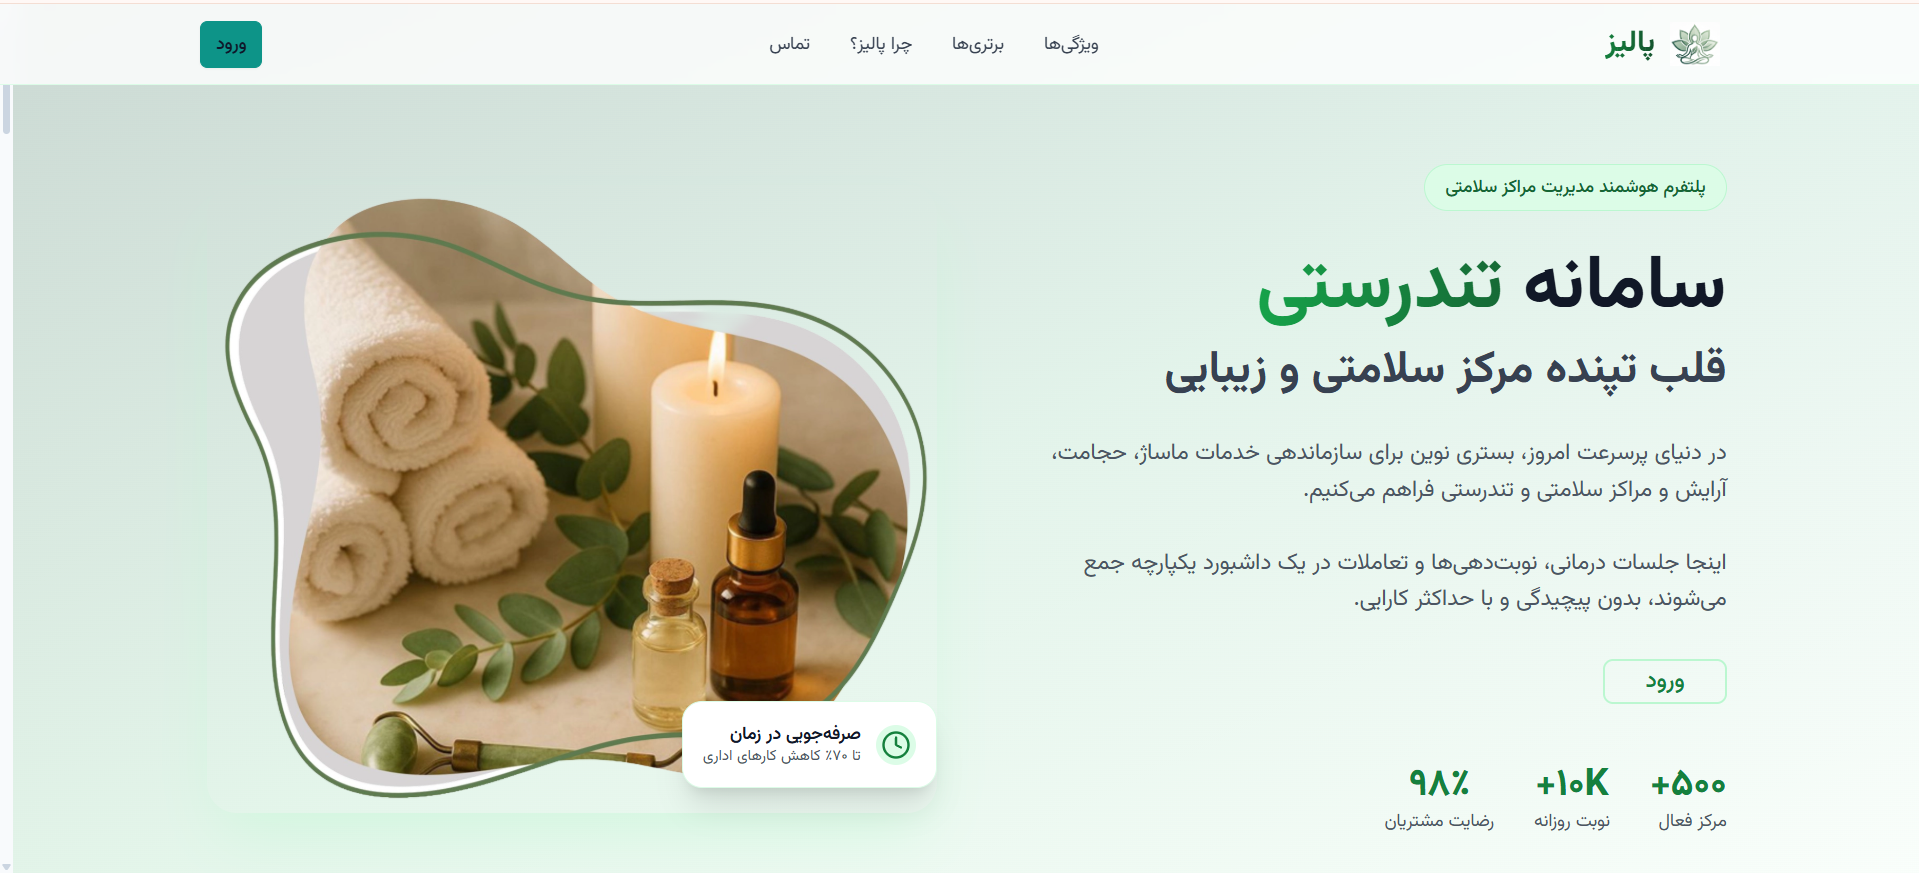
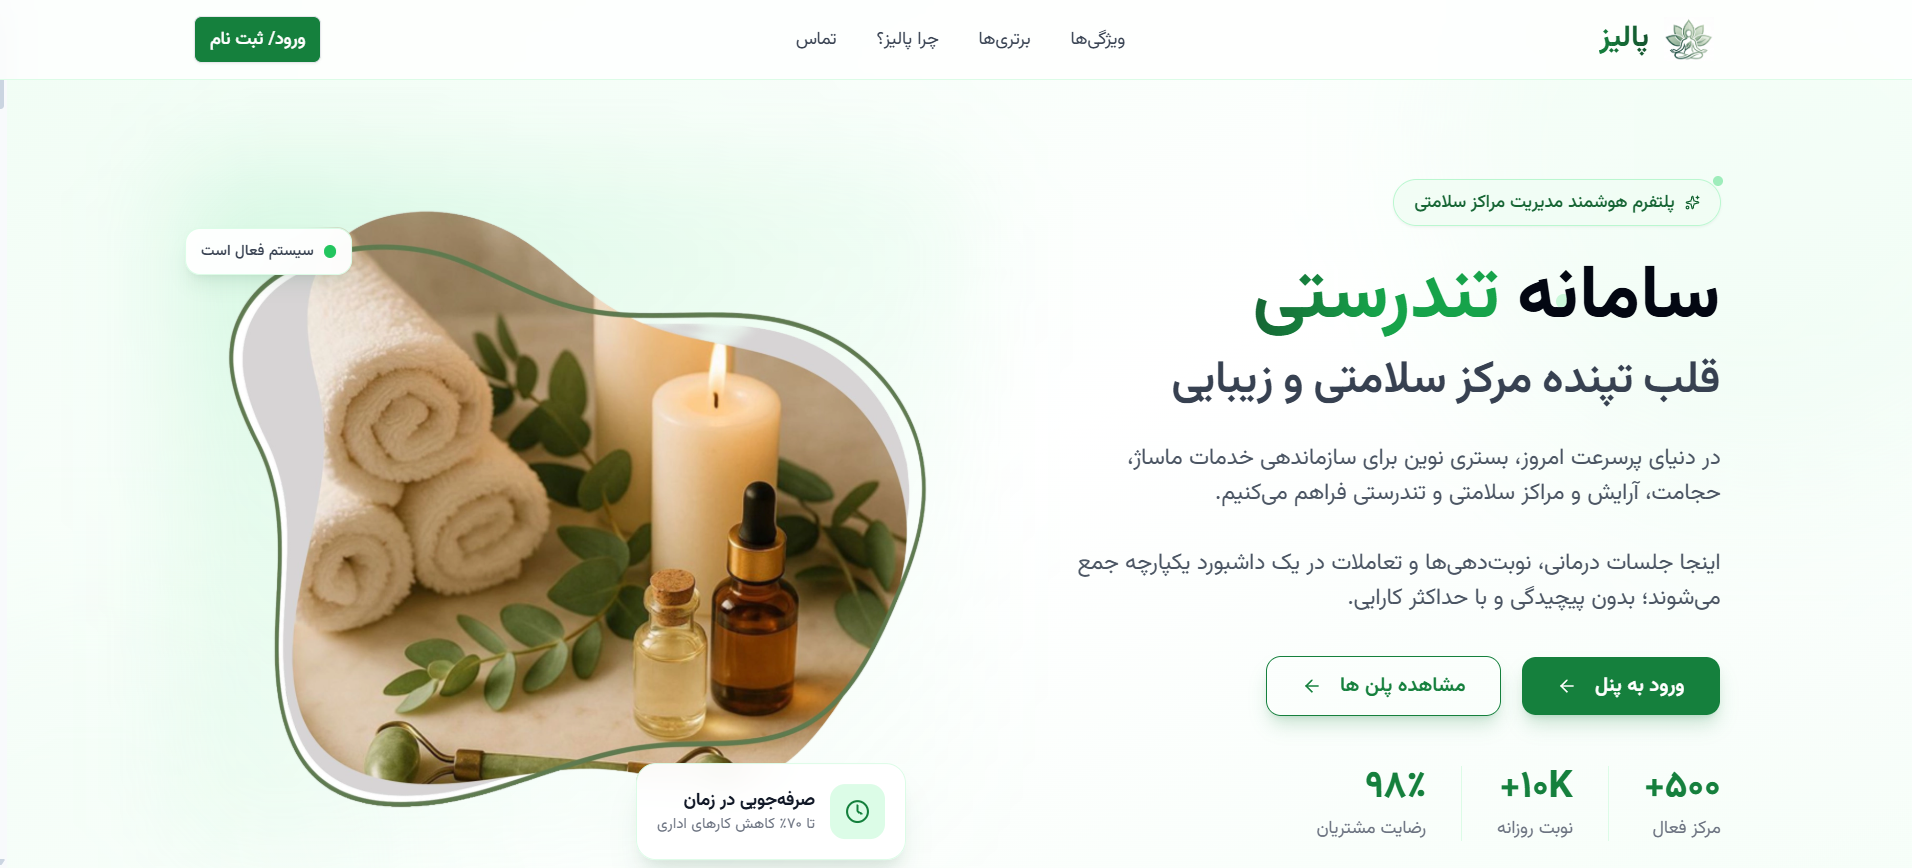
fix(landing)

diff --git a/src/data/portfolio.ts b/src/data/portfolio.ts
@@ -2,12 +2,11 @@ export const profile = {
   name: "Nastaran Talebi",
   role: "Front-End Developer · UI/UX Designer",
   intro:
-    "I design and build intuitive digital experiences where thoughtful interfaces meet solid front-end engineering.",
+    "I build digital experiences powered by thoughtful design and intelligent systems where users understand how AI works, and complexity becomes intuitive. Solid front-end engineering at the core.",
   location: "Isfahan, Iran",
   email: "nastarantalebi.1382@gmail.com",
   github: "https://github.com/Nastarantalebi",
   linkedin: "https://www.linkedin.com/in/nastaran-talebi-9227a6247/",
-  // cv: "/Nastaran-Talebi-CV.pdf",
 };
 
 export const experience = [
@@ -124,21 +123,25 @@ export const projects = [
 ];
 
 export const skills = {
-  frontend: ["React", "TypeScript", "JavaScript", "HTML/CSS","Next.js", "Redux", "Zustand", "Context API", "Node.js", "React-router-dom", "React-hook-form", "Docker"],
+  frontend: ["React", "TypeScript", "JavaScript", "HTML/CSS","Next.js", "Redux", "Zustand", "Context API", "Node.js", "React-router-dom", "React-hook-form", "Docker", "Framer-motion"],
   design: ["UI/UX Design", "HCI", "Figma", "Wireframing", "Prototyping", "Usability Testing"],
   ai: ["Python", "scikit-learn", "TensorFlow", "PyTorch", "Classification", "Regression", "Feature Engineering", "Image processing"],
   data: ["NumPy", "Pandas", "Matplotlib", "Seaborn", "Data Analysis", "Statistical Analysis"],
 };
 
+
 export const research = [
-  "Advanced Front-End Architectures for Scalable Web Applications",
-  "User Experience Optimization in Complex Enterprise Software",
-  "AI-Driven User Interface Personalization and Adaptation",
-  "Intelligent Agent Integration in Front-End Development Frameworks",
-  "Machine Learning for Enhanced User Experience Analytics",
-  "Human-AI Collaboration through Intuitive Web Interfaces",
-  "Design and Evaluation of Adaptive User Interfaces",
+  // --- Interpretable AI Interfaces ---
+  "Explainability in Recommendations: How UI design affects user trust in ML decisions",
+  "Feature Importance Visualization: Presenting model rationale without overwhelming users",
+  "Confidence Communication: When to show uncertainty and how users interpret it",
+  
+  // --- Adaptive UI Systems ---
+  "Behavior-Driven Complexity: Learning user expertise from interaction patterns",
+  "Progressive Information Disclosure: Adapting interface density based on proficiency",
+  "Real-time UX Adaptation: Measuring performance impact of dynamic interface changes",
 ];
+
 export const IMAGES = [
   {
     src: "/works/0.png",
@@ -151,25 +154,11 @@ export const IMAGES = [
     title: "Letters page",
   },
   {
-    src: "/works/2.png",
-    alt: "letters dashboard",
-    title: "Letters Dashboard",
-  },
-  {
     src: "/works/8.png",
     alt: "letters dashboard",
     title: "Letters Dashboard",
   },
-  {
-    src: "/works/3.png",
-    alt: "letters form",
-    title: "Letters Form",
-  },
-  {
-    src: "/works/4.png",
-    alt: "letter details",
-    title: "Letter Details",
-  },
+
   {
     src: "/works/5.png",
     alt: "letter parafs",
@@ -201,23 +190,14 @@ export const IMAGES = [
     title: "Wellness Landing",
   },
   {
+    src: "/works/16.png",
+    alt: "Wellness plans",
+    title: "Wellness plans",
+  },
+  {
     src: "/works/12.png",
     alt: "Wellness landing",
     title: "Wellness Landing",
   },
-  {
-    src: "/works/13.png",
-    alt: "Lawyer landing",
-    title: "Lawyer Landing",
-  },
-  {
-    src: "/works/14.png",
-    alt: "Lawyer landing",
-    title: "Lawyer Landing",
-  },
-  {
-    src: "/works/15.png",
-    alt: "Lawyer landing",
-    title: "Lawyer Landing",
-  },
+
 ];

diff --git a/src/components/Research.tsx b/src/components/Research.tsx
@@ -1,31 +1,58 @@
 import { ArrowUpRight } from "lucide-react";
 import { motion } from "motion/react";
-import { research } from "@/data/portfolio";
 import SectionHeading from "./SectionHeading";
+
+const researchAreas = [
+  {
+    title: "Interpretable AI Interfaces",
+    items: [
+      "Explainability in Recommendations: How UI design affects user trust in ML decisions",
+      "Feature Importance Visualization: Presenting model rationale without overwhelming users",
+      "Confidence Communication: When to show uncertainty and how users interpret it",
+    ]
+  },
+  {
+    title: "Adaptive UI Systems",
+    items: [
+      "Behavior-Driven Complexity: Learning user expertise from interaction patterns",
+      "Progressive Information Disclosure: Adapting interface density based on proficiency",
+      "Real-time UX Adaptation: Measuring performance impact of dynamic interface changes",
+    ]
+  }
+];
 
 export default function Research() {
   return (
-    <section id="research" className="px-6 py-28 md:px-10 md:py-36">
+    <section id="research" className="px-6 pt-28 md:px-10 md:py-10">
       <div className="mx-auto max-w-7xl">
-        <SectionHeading eyebrow="Research interests" title="Where I want to take the work next." />
-        <div className="grid gap-3">
-          {research.map((item, i) => (
-            <motion.div
-              key={item}
-              initial={{ opacity: 0, x: -12 }}
-              whileInView={{ opacity: 1, x: 0 }}
-              viewport={{ once: true }}
-              transition={{ delay: i * .04 }}
-              className="group flex items-center justify-between gap-5 border-b border-border py-5"
-            >
-              <div className="flex items-start gap-5">
-                <span className="mt-1 text-xs text-accent">0{i + 1}</span>
-                <h3 className="text-lg md:text-2xl">{item}</h3>
-              </div>
-              <ArrowUpRight className="size-5 shrink-0 text-muted-foreground transition-transform group-hover:-translate-y-1 group-hover:translate-x-1" />
-            </motion.div>
-          ))}
-        </div>
+        <SectionHeading 
+          eyebrow="Research Interests" 
+          title="Directions I'm actively building toward." 
+        />
+        
+        {researchAreas.map((area) => (
+          <div key={area.title} className="mb-14">
+            <h3 className="mb-6 text-lg font-medium text-accent">{area.title}</h3>
+            <div className="grid gap-3">
+              {area.items.map((item, i) => (
+                <motion.div
+                  key={item}
+                  initial={{ opacity: 0, x: -12 }}
+                  whileInView={{ opacity: 1, x: 0 }}
+                  viewport={{ once: true }}
+                  transition={{ delay: i * .04 }}
+                  className="group flex items-center justify-between gap-5 border-b border-border py-5"
+                >
+                  <div className="flex items-start gap-5">
+                    <span className="mt-1 text-xs text-accent">0{i + 1}</span>
+                    <p className="text-base md:text-lg">{item}</p>
+                  </div>
+                  <ArrowUpRight className="size-5 shrink-0 text-muted-foreground transition-transform group-hover:-translate-y-1 group-hover:translate-x-1" />
+                </motion.div>
+              ))}
+            </div>
+          </div>
+        ))}
       </div>
     </section>
   );

diff --git a/src/components/About.tsx b/src/components/About.tsx
@@ -5,7 +5,10 @@ export default function About() {
   return (
     <section id="about" className="bg-secondary/10 px-6 py-28 text-primary-foreground md:px-10 md:py-36">
       <div className="mx-auto grid max-w-7xl gap-14 lg:grid-cols-[.75fr_1.25fr]">
-        <SectionHeading eyebrow="About me" title="Engineer by training. Designer by instinct." />
+        <SectionHeading 
+          eyebrow="About" 
+          title="Building interfaces where AI enhances, not overwhelms." 
+        />
         <motion.div
           initial={{ opacity: 0, x: 25 }}
           whileInView={{ opacity: 1, x: 0 }}
@@ -14,16 +17,21 @@ export default function About() {
           className="lg:pt-16"
         >
           <p className="text-2xl leading-9 text-primary-foreground/90 md:text-4xl md:leading-[1.2]">
-            I&apos;m a Computer Engineering graduate from Yazd University, working at the intersection of front-end engineering, UI/UX design, and applied AI.
+            I'm drawn to a specific problem: most AI-driven products fail at the interface. 
+            The algorithm works, but users don't trust it. The system learns, but doesn't communicate why. 
+            I work at that intersection—using design to make intelligent systems legible.
           </p>
           <p className="mt-8 max-w-2xl leading-8 text-primary-foreground/60">
-            I build interfaces for complex, real-world systems — EMR platforms, booking flows, enterprise dashboards — and I&apos;m especially drawn to researching how AI and machine learning can make those interfaces more personalized, predictive, and human-aware. My thesis used a genetic algorithm to generate adaptive, user-specific recommendations, and that intersection of AI-driven logic and front-end experience is where I keep coming back.
+            My background spans clinical systems, booking platforms, and data-heavy dashboards—each 
+            reinforced that great UX and intelligent algorithms aren't opposing forces. When users understand 
+            how a system makes decisions, they use it better. When algorithms account for cognitive load and 
+            context, the interface becomes intuitive. That's what I'm building toward.
           </p>
           <div className="mt-10 grid grid-cols-2 gap-5 border-t border-primary-foreground/15 pt-7 sm:grid-cols-4">
             <Stat value="17.07/20" label="B.Sc. GPA" />
-            <Stat value="20/20" label="Thesis grade" />
-            <Stat value="6.5" label="IELTS Academic" />
-            <Stat value="AI × UX" label="Research focus" />
+            <Stat value="5+" label="Production Projects" />
+            <Stat value="Adaptive UX" label="Current Focus" />
+            <Stat value="AI·Design" label="Intersection" />
           </div>
         </motion.div>
       </div>

diff --git a/src/components/Hero.tsx b/src/components/Hero.tsx
@@ -6,7 +6,7 @@ import { FaLinkedin, FaGithub } from "react-icons/fa";
 
 export default function Hero() {
   return (
-    <section className="hero-glow relative min-h-dvh overflow-hidden px-6 pb-16 pt-3 sm:px-8 md:px-10 md:pb-0 md:pt-5 lg:pt-15">
+    <section className="hero-glow relative pb-6 overflow-hidden px-6 pt-3 sm:px-8 md:px-10 md:pb-0 md:pt-5 lg:pt-15">
       <div className="mx-auto grid min-h-fit max-w-7xl items-center gap-10 sm:gap-14 md:min-h-[calc(100dvh-10rem)] md:grid-cols-[1.05fr_.95fr]">
         <motion.div
           initial={{ opacity: 0, y: 30 }}
@@ -76,6 +76,9 @@ export default function Hero() {
               alt="Nastaran Talebi"
               className="h-full w-full object-cover object-top grayscale-[15%]"
             />
+            {/* Blurred fade overlay at bottom */}
+            <div className="absolute inset-x-0 bottom-0 h-1 bg-gradient-to-r from-bg-gray-100 via-bg-gray-500 rounded-full shadow-2xl to-bg-gray-100 backdrop-blur-md" />
+            ;
           </div>
           <div className="absolute -bottom-4 right-2 max-w-[calc(100%-1.5rem)] rounded-2xl border border-border bg-card/10 px-4 py-3 shadow-xl backdrop-blur sm:bottom-2 sm:right-4 sm:px-5 sm:py-4 md:-right-6 xl:-right-10">
             <p className="text-[10px] uppercase tracking-[.2em] text-muted-foreground sm:text-xs">

diff --git a/src/components/Contact.tsx b/src/components/Contact.tsx
@@ -40,7 +40,7 @@ export default function Contact() {
 
 
   return (
-    <section id="contact" className="px-6 pb-10 pt-20 md:px-10">
+    <section id="contact" className="px-6 pb-10 md:px-10">
       <motion.div
         initial={{ opacity: 0, y: 20 }}
         whileInView={{ opacity: 1, y: 0 }}
@@ -49,7 +49,7 @@ export default function Contact() {
       >
         <div className="grid grid-cols-1 md:grid-cols-2">
           {/* Left column — copy */}
-          <div className="flex flex-col justify-center px-7 py-16 md:px-14 md:py-24">
+          <div className="flex flex-col justify-center px-7 py-12 md:px-14 md:py-15">
             <Mail className="mb-7 size-7 text-accent" />
             <p className="text-xs uppercase tracking-[.25em] text-primary-foreground/50">
               Have a project in mind?

diff --git a/src/App.tsx b/src/App.tsx
@@ -8,6 +8,7 @@ import Skills from "@/components/Skills";
 // import Research from "@/components/Research";
 import Contact from "@/components/Contact";
 import WorkExperience from "./components/WorkExperience";
+import Research from "./components/Research";
 
 export default function App() {
   return (
@@ -21,7 +22,7 @@ export default function App() {
         <WorkExperience />
         {/* <Experience /> */}
         <Skills />
-        {/* <Research /> */}
+        <Research />
         <Contact />
       </main>
     </div>

diff --git a/src/components/WorkExperience.tsx b/src/components/WorkExperience.tsx
@@ -27,10 +27,10 @@ const WorkExperience = () => {
             defaultActiveIndex={1}
             slideWidth="auto"
             className="
-              h-[320px]
-              sm:h-[420px]
-              md:h-[520px]
-              lg:h-[560px]
+              h-[220px]
+              sm:-[320px]
+              md:h-[420px]
+              lg:h-[460px]
             "
           />
         </motion.div>

diff --git a/src/components/Skills.tsx b/src/components/Skills.tsx
@@ -116,7 +116,7 @@ export default function Skills() {
                     }}
                   />
 
-                  <p className="text-xs font-medium uppercase tracking-[0.2em] text-accent">
+                  <p className="text-xs font-bold uppercase tracking-[0.2em] text-accent">
                     {group.title}
                   </p>
                 </div>

diff --git a/src/styles/globals.css b/src/styles/globals.css
@@ -172,15 +172,3 @@ body { margin: 0; min-width: 320px; background: #eeeae4; }
   --sidebar-border: oklch(1 0 0 / 10%);
   --sidebar-ring: oklch(0.556 0 0);
 }
-
-@layer base {
-  * {
-    @apply border-border outline-ring/50;
-  }
-  body {
-    @apply bg-background text-foreground;
-  }
-  html {
-    @apply font-sans;
-  }
-}

diff --git a/src/components/Navbar.tsx b/src/components/Navbar.tsx
@@ -8,7 +8,7 @@ const links = [
   ["About", "#about"],
   ["Experience", "#experience"],
   ["Skills", "#skills"],
-  // ["Research", "#research"],
+  ["Research", "#research"],
   ["Contact", "#contact"],
 ];
 

diff --git a/index.html b/index.html
@@ -1,5 +1,5 @@
 <!doctype html>
-<html lang="en">
+<html lang="en" dir="ltr">
   <head>
     <meta charset="UTF-8" />
     <link rel="icon" type="image/svg+xml" href="/favicon.svg" />
